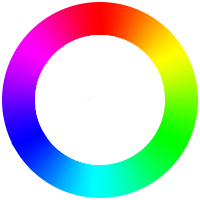
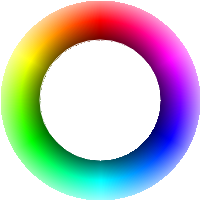
added a wheel generator under tools/, switched the color model to hsl, the customization menu now takes hue AND luminance into account

diff --git a/tools/colorwheel/colorwheel.html b/tools/colorwheel/colorwheel.html
@@ -1,0 +1,63 @@
+<!Doctype html>
+<html>
+<head>
+  <title>Color wheel generator</title>
+  <script src="../../build/utils.js"></script>
+	<script src="http://ajax.googleapis.com/ajax/libs/jquery/1.4.2/jquery.min.js"></script>
+	<script type="text/javascript">
+		$(document).ready(function() {
+				var ctxt = document.getElementById('canvas').getContext('2d');
+
+				var maxRadius = 100;
+				var minRadius = 60;
+				var maxLum = 80;
+				var minLum = 20;
+
+				for(var i = 0; i < 200; ++i)
+					for(var j = 0; j < 200; ++j)
+					{
+						var d = distance(i, j, 100, 100);
+
+						if(d < maxRadius && d > minRadius)
+						{
+							var dx = 100 - j;
+							var dy = 100 - i; 
+
+							// Hue.
+							var h = Math.atan2(dx, dy);
+							h = h > 0 ? h : h + 2*Math.PI;
+							h *=  180/Math.PI;
+							h = Math.floor(h);
+
+							// Saturation.
+							s = 100;
+
+							// Luminance.
+							l = minLum + (d-minRadius)/(maxRadius-minRadius)*(maxLum-minLum);
+
+							ctxt.fillStyle = 'hsl('+h+','+s+'%,'+l+'%)';
+							ctxt.fillRect(j, i, 1, 1);
+						}
+					}
+
+				// Draw arcs to smooth the inner edge.
+				ctxt.strokeStyle = 'white';
+				ctxt.lineWidth = 1;
+				ctxt.beginPath();
+				ctxt.arc(100, 100, minRadius, 0, 2*Math.PI, false);	 
+				ctxt.stroke();
+
+				var img = canvas.toDataURL('image/png');
+				document.write('<img src="'+img+'"/>');
+		});
+	</script>
+  <style>
+	* {
+			margin : 0;
+			padding : 0; }
+  </style>
+</head>
+<body>
+  <canvas id="canvas" width="200" height="200">Canvas not supported.</canvas>
+</body>
+</html>
